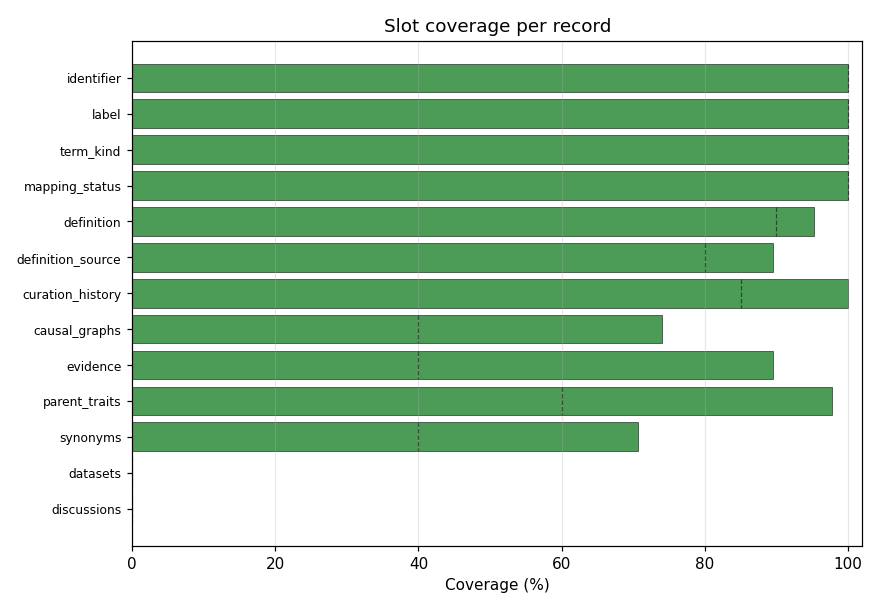
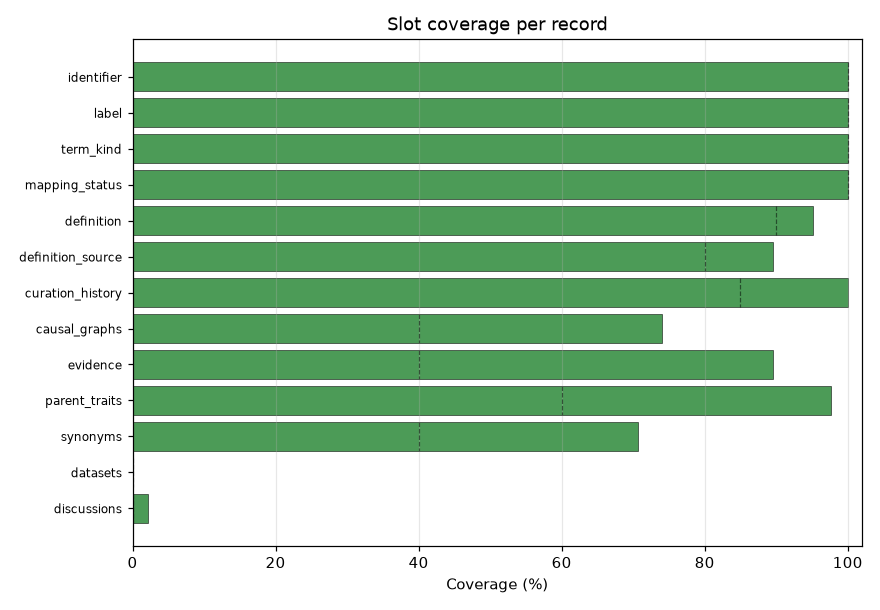
Regenerate stale derived artifacts
The committed dashboard was generated 2026-06-18 and reported 78.2%; the corpus
now scores 78.4%. Regenerated as a side effect of verifying the portability
changes above, and committed rather than reverted because the stale versions
misreport the corpus.

diff --git a/app/discussions/index.html b/app/discussions/index.html
@@ -5,8 +5,7 @@
 <meta name="viewport" content="width=device-width, initial-scale=1">
 <title>Knowledge gaps & discussions</title>
 <style>
-  :root { --fg:#1a1a1a; --muted:#666; --line:#e2e2e2; --accent:#2a6; --bg:#fff; --card:#fff;
-          --badge-bg:#eef; --badge-fg:#225; --badge-gap-bg:#fee; --badge-gap-fg:#922; --rationale-fg:#333; }
+  :root { --fg:#1a1a1a; --muted:#666; --line:#e2e2e2; --accent:#2a6; --bg:#fff; }
   * { box-sizing: border-box; }
   body { font-family: -apple-system, system-ui, sans-serif; color: var(--fg); margin: 0; background: var(--bg); }
   header { padding: 1rem 1.25rem; border-bottom: 1px solid var(--line); }
@@ -20,33 +19,14 @@
   .count { color: var(--muted); font-size: .85rem; margin-bottom: .5rem; }
   .card { border: 1px solid var(--line); border-radius: 8px; padding: .75rem .9rem; margin-bottom: .7rem; }
   .card h2 { font-size: .98rem; margin: 0 0 .35rem; font-weight: 600; }
-  .badge { display: inline-block; font-size: .7rem; padding: .05rem .4rem; border-radius: 4px; background: var(--badge-bg); color: var(--badge-fg); margin-right: .3rem; }
-  .badge.gap { background: var(--badge-gap-bg); color: var(--badge-gap-fg); }
+  .badge { display: inline-block; font-size: .7rem; padding: .05rem .4rem; border-radius: 4px; background: #eef; color: #225; margin-right: .3rem; }
+  .badge.gap { background: #fee; color: #922; }
   .src { color: var(--muted); font-size: .82rem; margin: .25rem 0; }
-  .rationale { font-size: .85rem; color: var(--rationale-fg); margin: .35rem 0; white-space: pre-wrap; }
+  .rationale { font-size: .85rem; color: #333; margin: .35rem 0; white-space: pre-wrap; }
   .refs { font-size: .8rem; color: var(--muted); }
   a { color: var(--accent); text-decoration: none; }
   a:hover { text-decoration: underline; }
   .empty { color: var(--muted); padding: 2rem; text-align: center; }
-
-  /* ---- Dark theme (additive; OS default, overridden by the toggle) ---- */
-  @media (prefers-color-scheme: dark) {
-    :root:not([data-theme="light"]) {
-      --fg:#e8e8ea; --muted:#9aa0a6; --line:#2c2c30; --accent:#4bbe88; --bg:#161618; --card:#1f1f22;
-      --badge-bg:rgba(120,140,220,.18); --badge-fg:#c3ccf2; --badge-gap-bg:rgba(200,90,90,.18);
-      --badge-gap-fg:#f0a9a9; --rationale-fg:#d4d4d8;
-    }
-  }
-  :root[data-theme="dark"] {
-    --fg:#e8e8ea; --muted:#9aa0a6; --line:#2c2c30; --accent:#4bbe88; --bg:#161618; --card:#1f1f22;
-    --badge-bg:rgba(120,140,220,.18); --badge-fg:#c3ccf2; --badge-gap-bg:rgba(200,90,90,.18);
-    --badge-gap-fg:#f0a9a9; --rationale-fg:#d4d4d8;
-  }
-
-  @media (prefers-reduced-motion: reduce) {
-    *, *::before, *::after { animation-duration:.01ms!important; animation-iteration-count:1!important;
-      transition-duration:.01ms!important; scroll-behavior:auto!important; }
-  }
 </style>
 </head>
 <body>
@@ -143,6 +123,5 @@
   renderFacets(); render();
 })();
 </script>
-<script src="theme-toggle.js"></script>
 </body>
 </html>

diff --git a/dashboard/index.html b/dashboard/index.html
@@ -35,7 +35,7 @@
 <body>
 
 <h1>TraitMech — QC Dashboard</h1>
-<div class="meta">Generated 2026-06-18T19:30:21+00:00</div>
+<div class="meta">Generated 2026-07-31T19:22:46+00:00</div>
 
 <div class="stat-grid">
   <div class="stat">
@@ -48,7 +48,7 @@
   </div>
   <div class="stat">
     <div class="label">Overall coverage</div>
-    <div class="value">78.2%</div>
+    <div class="value">78.4%</div>
   </div>
   <div class="stat">
     <div class="label">FAIL slots</div>
@@ -182,8 +182,8 @@
     </tr>
     <tr>
       <td><code>discussions</code></td>
-      <td class="right">0 / 477</td>
-      <td class="right">0.0%</td>
+      <td class="right">10 / 477</td>
+      <td class="right">2.1%</td>
       <td class="right">0%</td>
       <td>
         <span class="badge pass">PASS</span>
